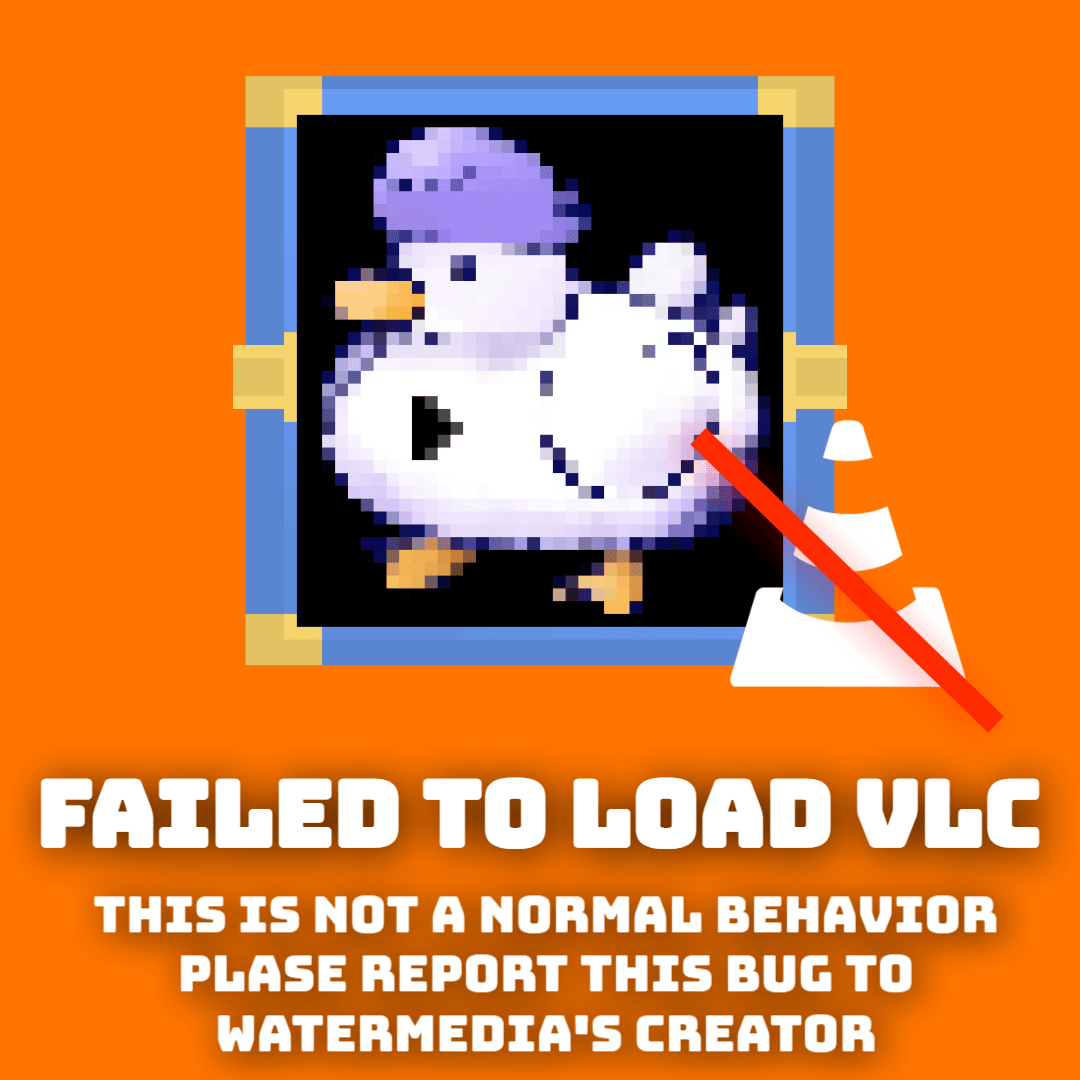
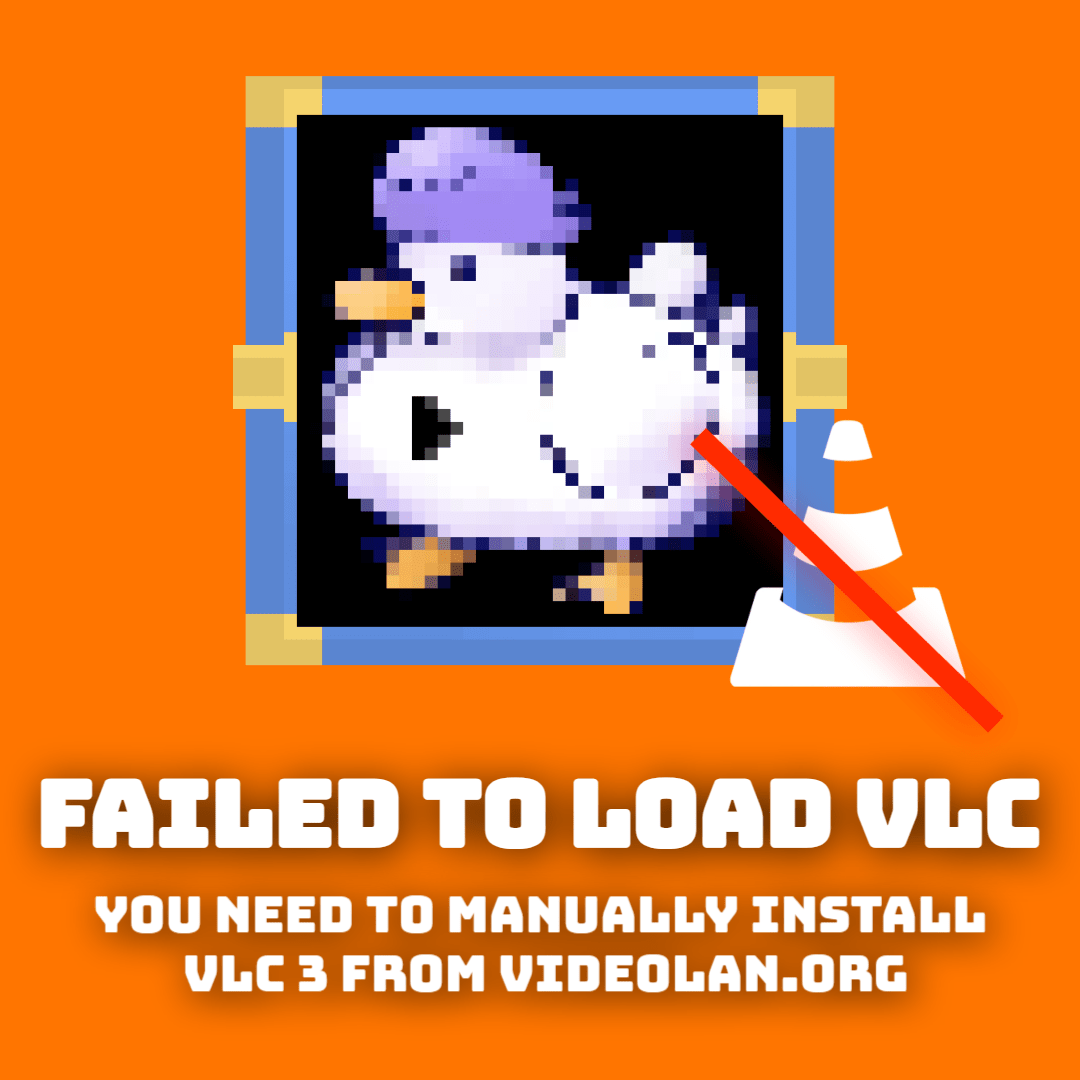
removed "something failed to load" vlc image to use directly "install VLC" image

Changed region(s): [[0.0917, 0.825, 0.9472, 1.0], [0.6722, 0.3972, 0.7028, 0.4278], [0.6417, 0.4278, 0.6722, 0.4583]]

diff --git a/src/main/java/me/srrapero720/watermedia/api/WaterMediaAPI.java b/src/main/java/me/srrapero720/watermedia/api/WaterMediaAPI.java
@@ -27,14 +27,15 @@ public final class WaterMediaAPI {
     private static final List<FixerBase> URL_PATCHERS = new ArrayList<>();
 
     // RESOURCES
-    public static ImageRenderer LOADING_GIF;
-    public static ImageRenderer VLC_FAILED;
-    public static ImageRenderer VLC_FAILED_EXTENDED;
-    public static ImageRenderer VLC_FAILED_INSTALL;
-    public static ImageRenderer VLC_FAILED_INSTALL_EXTENDED;
+    private static ImageRenderer IMG_LOADING;
+    public static ImageRenderer img_getLoading() { return IMG_LOADING; }
+    private static ImageRenderer IMG_VLC_FAIL;
+    public static ImageRenderer img_getFailedVLC() { return IMG_VLC_FAIL; }
+    private static ImageRenderer IMG_VLC_FAIL_LAND;
+    public static ImageRenderer img_getLandFailedVLC() { return IMG_VLC_FAIL_LAND; }
 
     public static void init(IMediaLoader loader) {
-        LOGGER.warn(IT, (!URL_PATCHERS.isEmpty() ? "Rel" : "L") + "oading URLFixers");
+        LOGGER.warn(IT, (!URL_PATCHERS.isEmpty() ? "Rel" : "L") + "oading {}", FixerBase.class.getSimpleName());
         URL_PATCHERS.clear();
 
         // REGISTER + LOGGER
@@ -47,32 +48,15 @@ public final class WaterMediaAPI {
                 new DropboxFixer()
         );
 
-        LOGGER.info(IT, "Loading internal {}'s", ImageRenderer.class.getSimpleName());
 
         ThreadCore.trySimple(() -> {
-            if (LOADING_GIF == null) LOADING_GIF = new ImageRenderer(JarTool.readGif(loader.getModuleClassLoader(), "/pictures/loading.gif"));
-            else LOGGER.warn("Skipping LOADING_GIF");
-        }, (e) -> LOGGER.error("Failed to load 'LOADING_GIF'", e));
+            if (IMG_LOADING != null) return;
 
-        ThreadCore.trySimple(() -> {
-            if (VLC_FAILED == null) VLC_FAILED = new ImageRenderer(JarTool.readImage(loader.getModuleClassLoader(), "/pictures/videolan/failed.png"));
-            else LOGGER.warn("Skipping VLC_FAILED");
-        }, (e) -> LOGGER.error("Failed to load 'VLC_FAILED'", e));
-
-        ThreadCore.trySimple(() -> {
-            if (VLC_FAILED_EXTENDED == null) VLC_FAILED_EXTENDED = new ImageRenderer(JarTool.readImage(loader.getModuleClassLoader(), "/pictures/videolan/failed-landscape.png"));
-            else LOGGER.warn("Skipping VLC_FAILED_EXTENDED");
-        }, (e) -> LOGGER.error("Failed to load 'VLC_FAILED_EXTENDED'", e));
-
-        ThreadCore.trySimple(() -> {
-            if (VLC_FAILED_INSTALL == null) VLC_FAILED_INSTALL = new ImageRenderer(JarTool.readImage(loader.getModuleClassLoader(), "/pictures/videolan/failed-install.png"));
-            else LOGGER.warn("Skipping VLC_FAILED_INSTALL");
-        }, (e) -> LOGGER.error("Failed to load 'VLC_FAILED_INSTALL'", e));
-
-        ThreadCore.trySimple(() -> {
-            if (VLC_FAILED_INSTALL_EXTENDED == null) VLC_FAILED_INSTALL_EXTENDED = new ImageRenderer(JarTool.readImage(loader.getModuleClassLoader(), "/pictures/videolan/failed-install-landscape.png"));
-            else LOGGER.warn("Skipping VLC_FAILED_INSTALL_EXTENDED");
-        }, (e) -> LOGGER.error("Failed to load 'VLC_FAILED_INSTALL_EXTENDED'", e));
+            LOGGER.info(IT, "Loading image resources in a {} instance", ImageRenderer.class.getSimpleName());
+            IMG_LOADING = new ImageRenderer(JarTool.readGif(loader.getModuleClassLoader(), "/pictures/loading.gif"));
+            IMG_VLC_FAIL = new ImageRenderer(JarTool.readImage(loader.getModuleClassLoader(), "/pictures/videolan/failed.png"));
+            IMG_VLC_FAIL_LAND = new ImageRenderer(JarTool.readImage(loader.getModuleClassLoader(), "/pictures/videolan/failed-land.png"));
+        }, e -> LOGGER.error(IT, "Failed to load image resources", e));
     }
 
     /**
